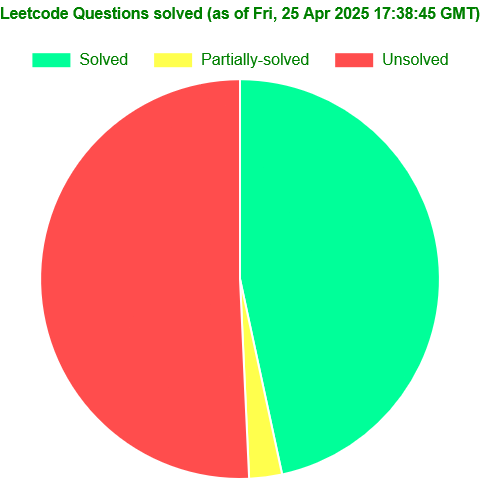
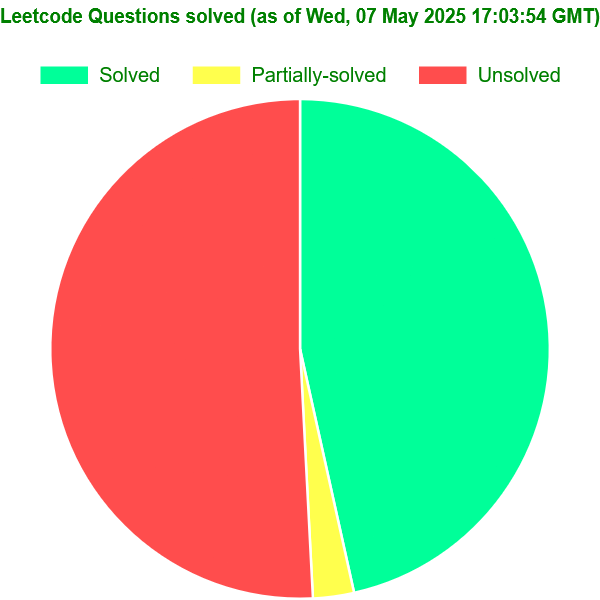
LC CPP, updated readme and stats

diff --git a/stats/chart-generator/main.js b/stats/chart-generator/main.js
@@ -1135,6 +1135,7 @@ const arr = [
   {"quesId":2062,"title":"count vowel substrings of a string","languages":"cpp","acceptedCount":"2","unacceptedCount":"0"}, 
   {"quesId":2063,"title":"vowels of all substrings","languages":"cpp","acceptedCount":"1","unacceptedCount":"1"}, 
   {"quesId":2064,"title":"minimized maximum of products distributed to any store","languages":"cpp","acceptedCount":"1","unacceptedCount":"1"}, 
+  {"quesId":2065,"title":"maximum path quality of a graph","languages":"cpp","acceptedCount":"1","unacceptedCount":"0"}, 
   {"quesId":2068,"title":"check whether two strings are almost equivalent","languages":"cpp","acceptedCount":"1","unacceptedCount":"0"}, 
   {"quesId":2073,"title":"time needed to buy tickets","languages":"cpp","acceptedCount":"1","unacceptedCount":"0"}, 
   {"quesId":2078,"title":"two furthest houses with different colors","languages":"cpp","acceptedCount":"2","unacceptedCount":"0"}, 
@@ -1741,12 +1742,13 @@ const arr = [
   {"quesId":3532,"title":"path existence queries in a graph I","languages":"cpp","acceptedCount":"1","unacceptedCount":"1"}, 
   {"quesId":3534,"title":"path existence queries in a graph II","languages":"cpp","acceptedCount":"0","unacceptedCount":"1"}, 
   {"quesId":3536,"title":"maximum product of two digits","languages":"cpp","acceptedCount":"2","unacceptedCount":"0"}, 
+  {"quesId":3537,"title":"fill a special grid","languages":"cpp","acceptedCount":"1","unacceptedCount":"0"}, 
 ]
 
 // ------------ DATA ARRAY END ------------ //
 
 // ****** please UPDATE before using ****** // 
-const maxQuesId = 3600
+const maxQuesId = 3540
 
 function loadPieChart1(){
   const solved = arr.reduce((acc, {acceptedCount}) => acc += acceptedCount !== '0', 0)

diff --git a/CPP [2001-2500]/2065.maximum_path_quality_of_a_graph [1].cpp b/CPP [2001-2500]/2065.maximum_path_quality_of_a_graph [1].cpp
@@ -1,0 +1,48 @@
+class Solution {
+private:
+    typedef pair<int, int> PII;
+
+    int maxVal = 0;
+
+    void dfs(vector<vector<PII>>& graph, vector<int>& values, vector<int>& visited, int maxTime, int currNode, int currTime, int currVal){
+        if(currTime > maxTime)
+            return;
+
+        // increment the num of times curr node is visited
+        // include the curr node's value if its visited for the 1st time
+        if(visited[currNode]++ == 0)
+            currVal += values[currNode];
+        
+        // reached the node 0 again
+        if(currNode == 0)
+            maxVal = max(maxVal, currVal);
+        
+        for(auto [nei, time]: graph[currNode])
+            dfs(graph, values, visited, maxTime, nei, currTime + time, currVal);
+
+        // decrement the num of times curr node is visited
+        // exclude the curr node's value if it becomes unvisited
+        if(--visited[currNode] == 0)
+            currVal -= values[currNode];
+    }
+
+public:
+    int maximalPathQuality(vector<int>& values, vector<vector<int>>& edges, int maxTime) {
+        int n = values.size();
+        vector<vector<PII>> graph(n);
+        for(vector<int>& edge: edges)
+        {
+            int a = edge[0], b = edge[1];
+            int t = edge[2];
+
+            graph[a].push_back({b, t});
+            graph[b].push_back({a, t});
+        }
+
+        // visited[i]: num of times the ith node is visited
+        vector<int> visited(n, 0);
+        dfs(graph, values, visited, maxTime, 0, 0, 0);
+
+        return maxVal;
+    }
+};

diff --git a/CPP [3501-4000]/3537.fill_a_special_grid [1].cpp b/CPP [3501-4000]/3537.fill_a_special_grid [1].cpp
@@ -1,0 +1,31 @@
+class Solution {
+private:
+    void solve(vector<vector<int>>& grid, int n, int i, int j, int& curr){
+        if(n == 1)
+        {
+            grid[i][j] = curr--;
+            return;
+        }
+
+        // quad 2 (top-left)
+        solve(grid, n/2, i, j, curr);
+        // quad 3 (bottom-left)
+        solve(grid, n/2, i + n/2, j, curr);
+        // quad 4 (bottom-right)
+        solve(grid, n/2, i + n/2, j + n/2, curr);
+        // quad 1 (top-right)
+        solve(grid, n/2, i, j + n/2, curr);
+    }
+
+public:
+    // T.C.=O(2^(2*N)), S.C.=O(??)
+    vector<vector<int>> specialGrid(int N) {
+        int n = 1 << N; // pow(2, N)
+        int maxNum = n*n - 1; // pow(2, 2*N) - 1
+        vector<vector<int>> grid(n, vector<int>(n, 0));
+
+        solve(grid, n, 0, 0, maxNum);
+
+        return grid;
+    }
+};

diff --git a/README.md b/README.md
@@ -1,7 +1,7 @@
 # Summary
-This repo contains solutions to over 1500 problems from [leetcode.com](https://leetcode.com/problemset/ "leetcode") (in 3 languages):
+This repo contains solutions to over 1600 problems from [leetcode.com](https://leetcode.com/problemset/ "leetcode") (in 3 languages):
 * C++ (over **1500** solutions)
-* Javascript (over **55** solutions)
+* Javascript (over **60** solutions)
 * MySQL (over **75** solutions)
 
 ---
